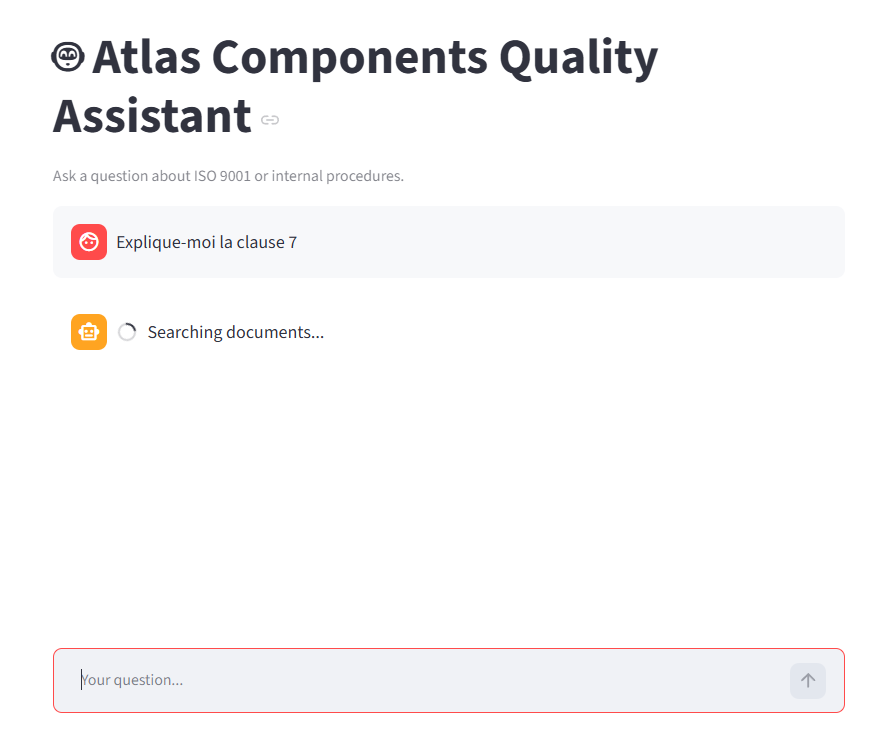
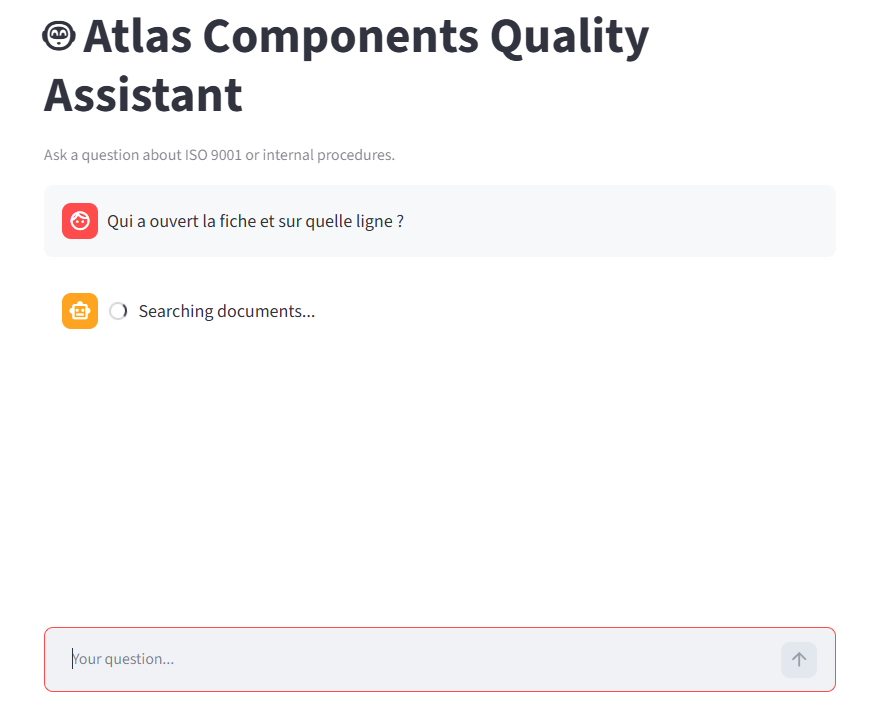
modification du readme

diff --git a/README.md b/README.md
@@ -100,6 +100,8 @@ The `lancedb/` folder is generated locally and excluded from Git. Keep source do
 
 ## Screenshots
 
+The screenshots below show the assistant interface and its document retrieval and answer flow.
+
 ### Chat Interface
 
 <img src="screenshots/interface.png" alt="Chat Interface" width="700">
@@ -111,3 +113,15 @@ The `lancedb/` folder is generated locally and excluded from Git. Keep source do
 ### Answer with Sources
 
 <img src="screenshots/response.png" alt="Answer with Sources" width="700">
+
+
+
+<img src="screenshots/image1.png" alt="Application screenshot 1" width="700">
+
+
+
+<img src="screenshots/image2.png" alt="Application screenshot 2" width="700">
+
+
+
+<img src="screenshots/image3.png" alt="Application screenshot 3" width="700">
